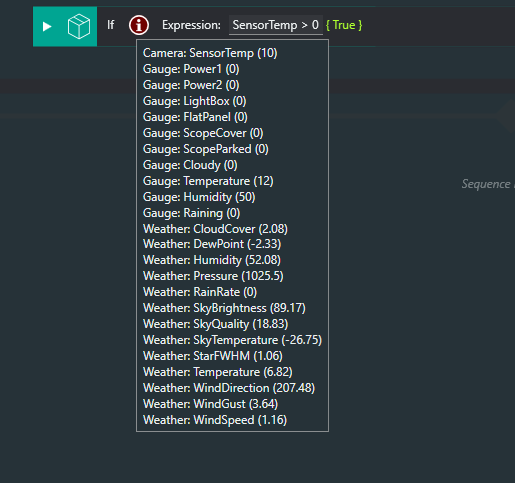
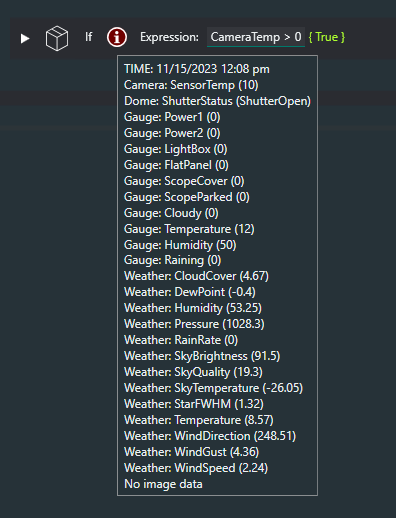
New stuff

Changed region(s): [[0.0303, 0.0, 0.8788, 0.9627], [0.9091, 0.3727, 1.0, 0.4037]]

diff --git a/docs/CVE.md b/docs/CVE.md
@@ -9,6 +9,10 @@ An Expression in Sequencer Powerups is pretty much any kind of mathematical expr
 Expressions can be used in various "enhanced" instructions (enhanced in the sense that they accept Expressions in place of numbers), as well as some new instructions like **If** and **Loop While**. Enhanced instructions are named with "+" appended to the instruction name (e.g. **Take Exposure +**, **Cool Camera +**, etc).
 So, for example, in **Take Exposure +**, the value of Exposure Time might be `10` or `ExpTime` (assuming `ExpTime` is defined as a Constant or Variable; see below) or even `ExpTime / 3` or a conditional like `if (rgb, ExpTime, ExpTime*2/3)`.  In the latter case, the "if" predicate takes three arguments: something can be tested for true/false (1/0), a value if "true", and a value if "false". Sometime, I'll add a list of valid operators.
 
+### What's Valid in an Expression
+
+Valid tokens in Expressions include numbers, parentheses, function and operator names (see [Appendix](#appendix-functions-and-operators-in-expressions)), Constant and Variable names, the names of gauges, switches, and weather data (if these devices are connected in NINA), a dome's ShutterState (with Dome connected), a camera's SensorTemp (with Camera connected), and the reserved names **TIME** and **SAFE** (see [ReservedVariables](#reserved-variables)).
+
 ## Constants
 
 A Constant in Powerups is created using the **Define Constant** instruction; enter a name for the Constant and a value, which can be any valid expression (if the value refers to a Constant, it needs to have been defined in the same instruction set or in a parent of the instruction set).  **Define Constant** is *self-executing* and continuously re-evaluated!  This means that Constants are "live" as they are read into the sequencer, and their values update as required, based on changes to other Constants referred to.  When the Sequencer executes a **Define Constant** command, literally nothing happens!
@@ -33,9 +37,26 @@ The **Set Variable** instruction can be used to change the value of a previously
 
 Just as in a procedural computer language, if you are looping through an instruction set, any variables defined in that set are reset to having no value before the loop repeats!
 
-## If and Loop While
+## If (instruction), When (trigger), and Loop While (condition)
 
-The **If** instruction (previously If Constant) evaluates the given expression and runs the specified instruction if that expression is not false (not 0 or "false").   This instruction has been around for a number of versions of Powerups.
+### If
+
+The **If** instruction (previously If Constant) evaluates the given expression and runs the specified instructions if that expression is not false (not 0 or "false"). This instruction was previously named **If Constant**.
+
+![](If.png)
+
+### When
+
+The **When** trigger (previously When Switch) triggers *when* the given expression is not false (not 0 or "false') and runs the specified instructions. There is a **Once Only** toggle in this instruction; setting this to ON will cause this trigger to run only once during execution of your sequence.
+
+#### Warnings for the When Trigger
+ If you don't somehow arrange for the expression to become false during the execution of the included instructions, the **When** trigger will run every five seconds (after finishing those instructions).  If you want to keep this from happening, set the **Once Only** toggle to ON
+
+ Unlike other Triggers, the **When** trigger trips within seconds of the expression becoming true, even interrupting instructions in process.  This is very much unlike regular NINA triggers which trip *between* instructions.
+
+![](When.png)
+
+### Loop While
 
 **Loop While** is new; it's a standard NINA "Conditional" and gets placed with other conditionals in an instruction set.   When queried (every 5 seconds or so while a sequence is running), it evaluates the given expression and terminates the loop if the result is "false" or 0.
 
@@ -47,9 +68,14 @@ Note the red "i" (for "Information") icon in the **Loop While** instruction.  Ho
 
 ![](InfoDropdown.png)
 
+## Reserved Variables
 
+The following Variable names are reserved:
 
- 
+**SAFE** &ensp; - &ensp; See the documentation for "Safety"
+
+**TIME** &ensp; - &ensp; The current time in seconds since NINA was started, with an accuracy of 10 seconds or so. This is not intended, obviously, for highly accurate timing, but can be used, for example, with the **When** trigger to take actions at various intervals.
+
 ## Odds and Ends
 
 •	Wherever Constants of Variables are used, the current values are shown in brackets { }, in green if valid and in orange if invalid (not defined, etc.)  These colors are currently fixed, and only appear nicely in certain color schemes; sorry about that!  Here's a rather useless example:

diff --git a/docs/index.md b/docs/index.md
@@ -1,6 +1,6 @@
-# Welcome to Sequencer Powerups for NINA
+# Welcome
 
-The Sequencer Powerups plugin contains a variety of useful instructions that enhance the power of the NINA's Advanced Sequencer.  The set of these instructions is expected to increase over time; consider them 'utility' instructions.  Many of these instructions allow you to take arbitrary sets of actions when specific circumstances arise; you specify these actions by dragging instructions into place, just as you would to create any instruction set or template.
+The Sequencer Powerups plugin for NINA contains a variety of useful instructions that enhance the power of the NINA's Advanced Sequencer.  The set of these instructions is expected to increase over time; consider them 'utility' instructions.  Many of these instructions allow you to take arbitrary sets of actions when specific circumstances arise; you specify these actions by dragging instructions into place, just as you would to create any instruction set or template.
 
 ** NOTE: Sequencer Powerups now supercedes the 'Constants for Exposures' and 'Interrupts' plugins.  Instructions from the deprecated plugins will no longer work if you remove that plugin; you will have to replace them with instructions from here! **
 
